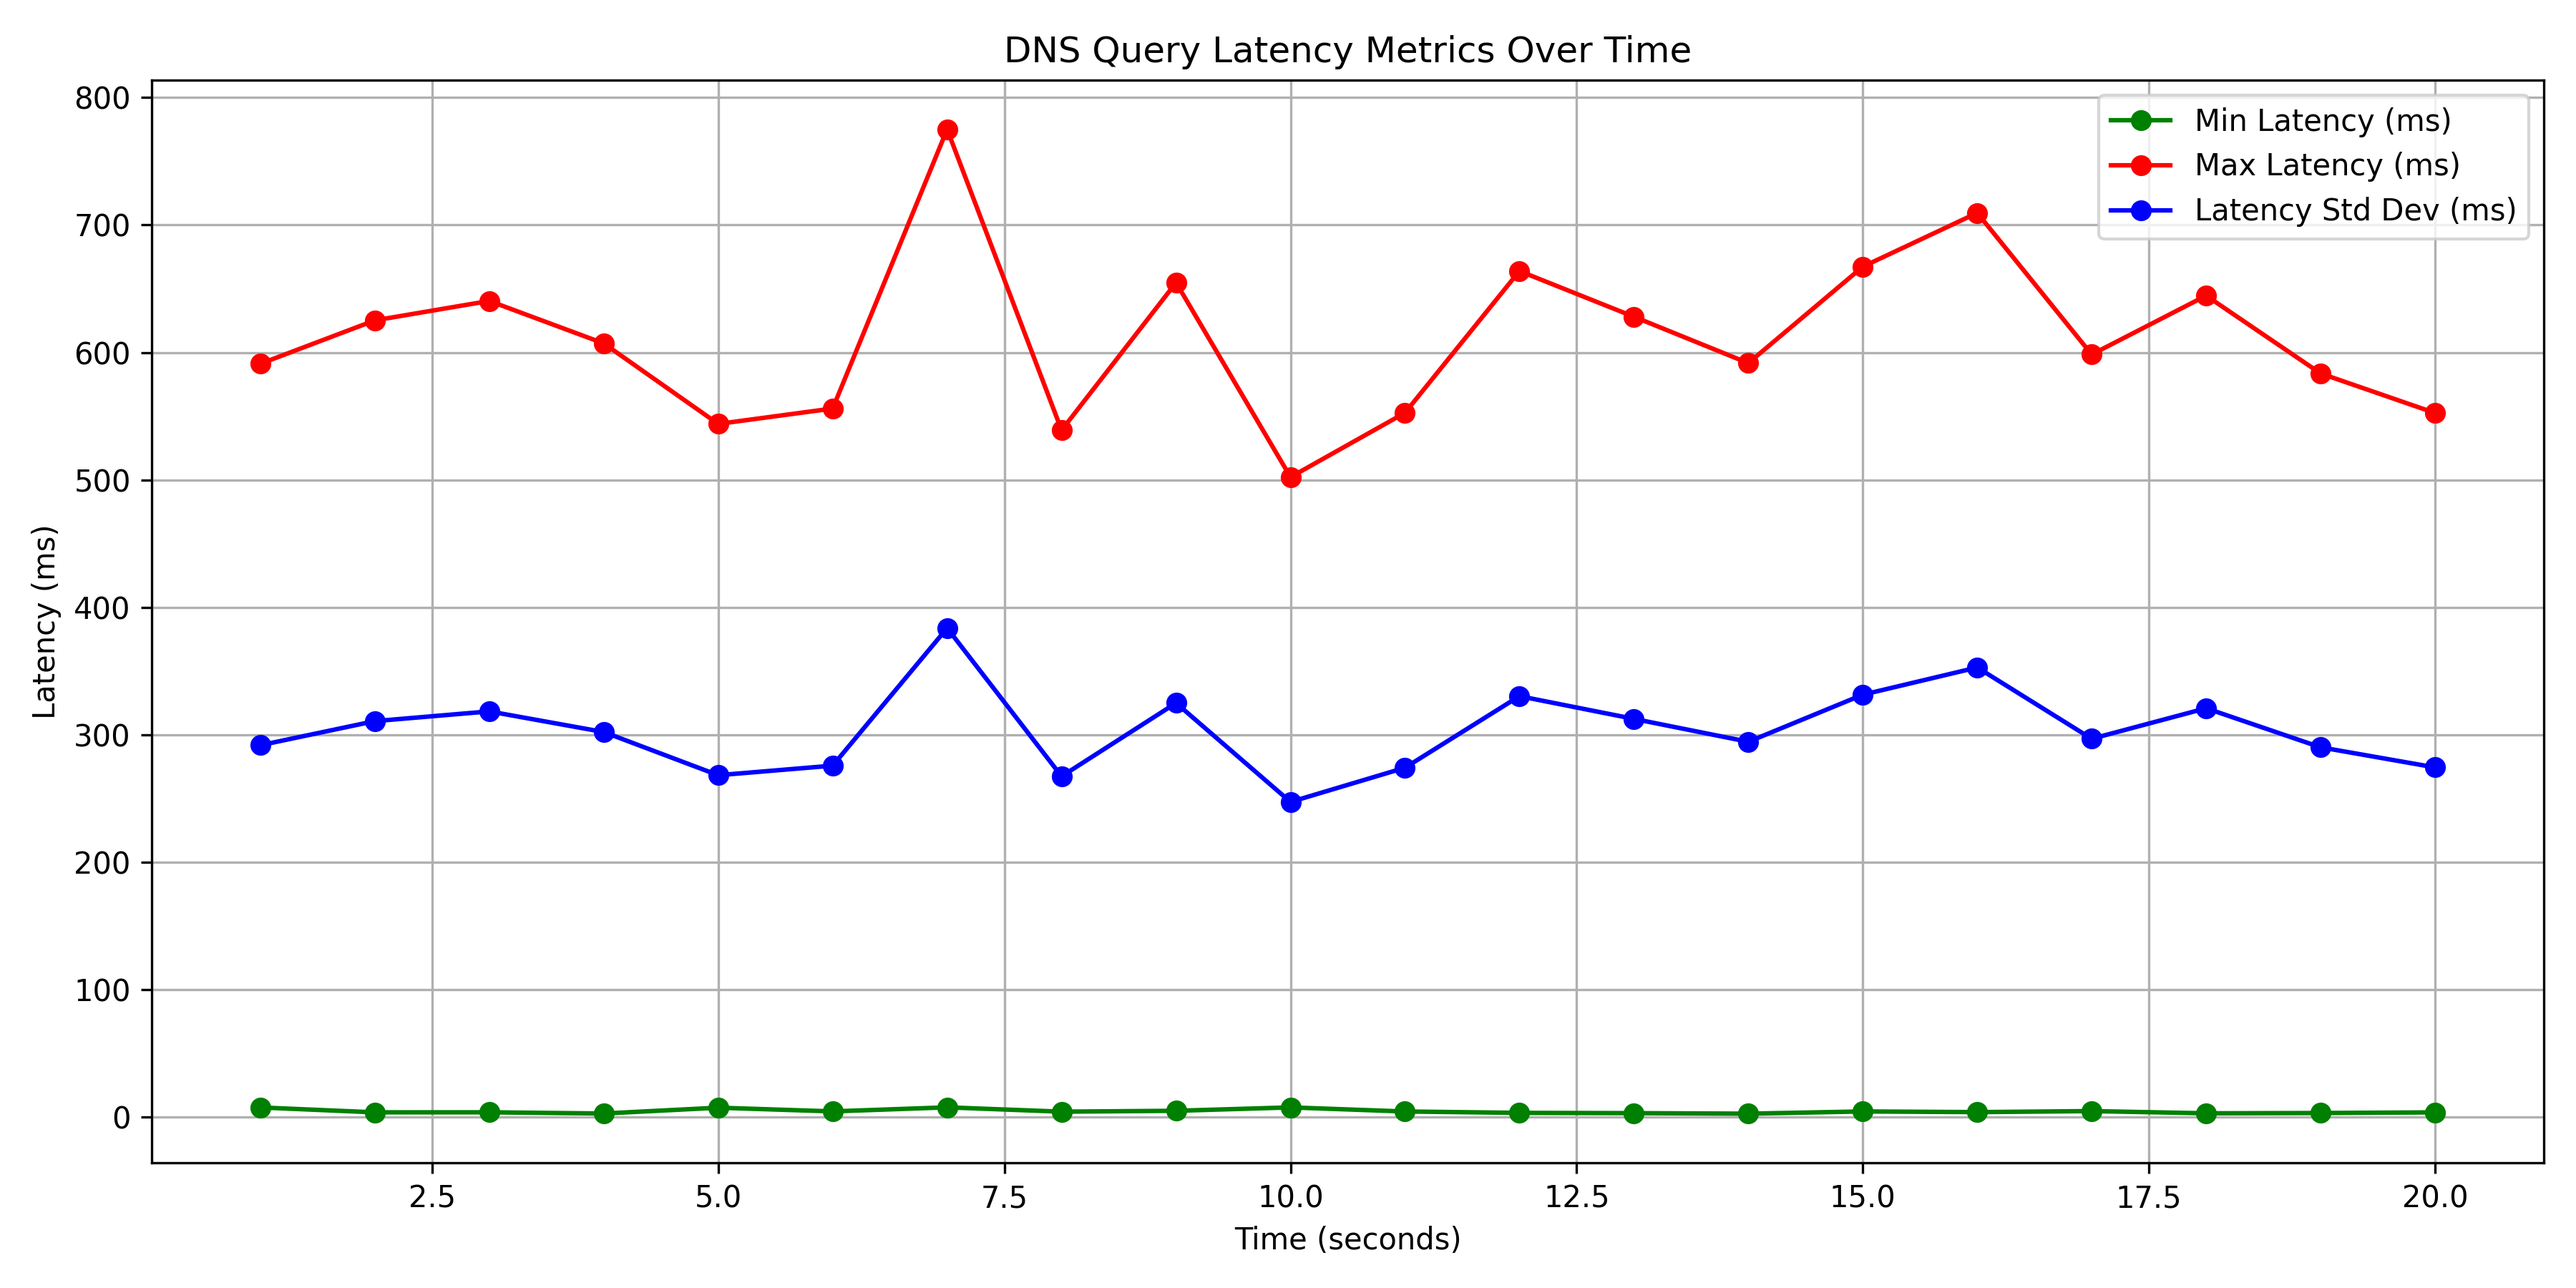
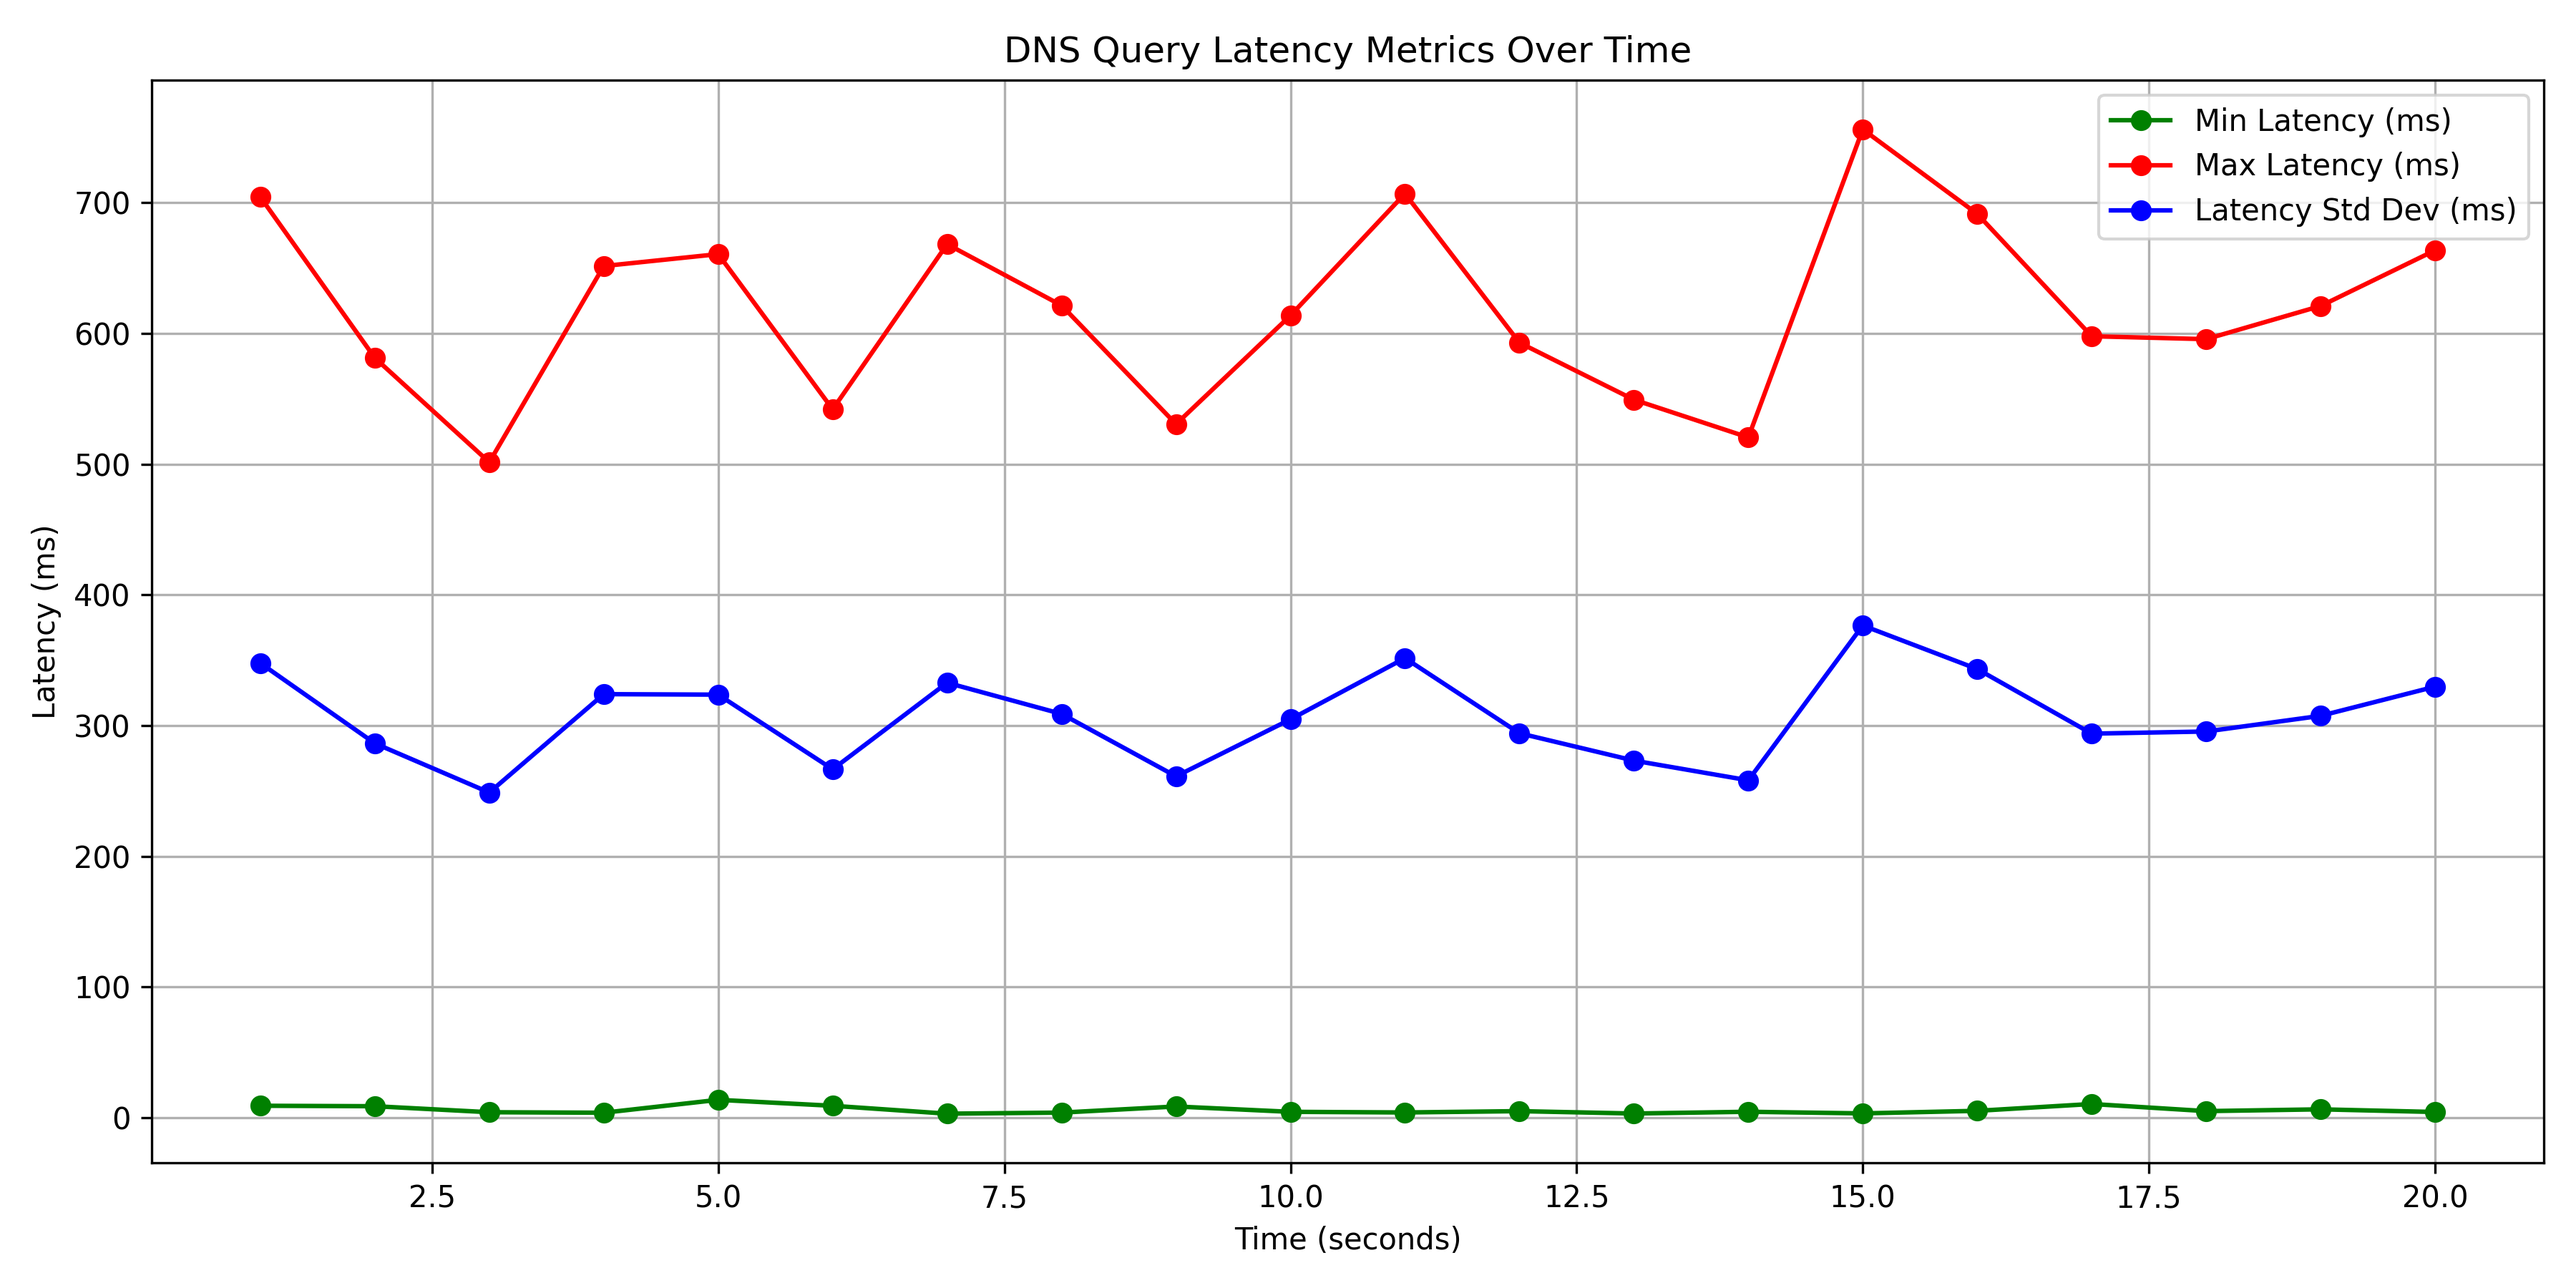
added DNS over TCP metrics

diff --git a/scripts/bench/lat.py b/scripts/bench/lat.py
@@ -30,7 +30,7 @@ plt.plot(seconds, latency_std, label="Latency Std Dev (ms)", marker="o", color="
 
 plt.xlabel("Time (seconds)")
 plt.ylabel("Latency (ms)")
-plt.title("DNS Query Latency Metrics Over Time")
+plt.title("DNS TCP Query Latency Metrics Over Time")
 plt.grid(True)
 plt.legend()
 plt.tight_layout()
